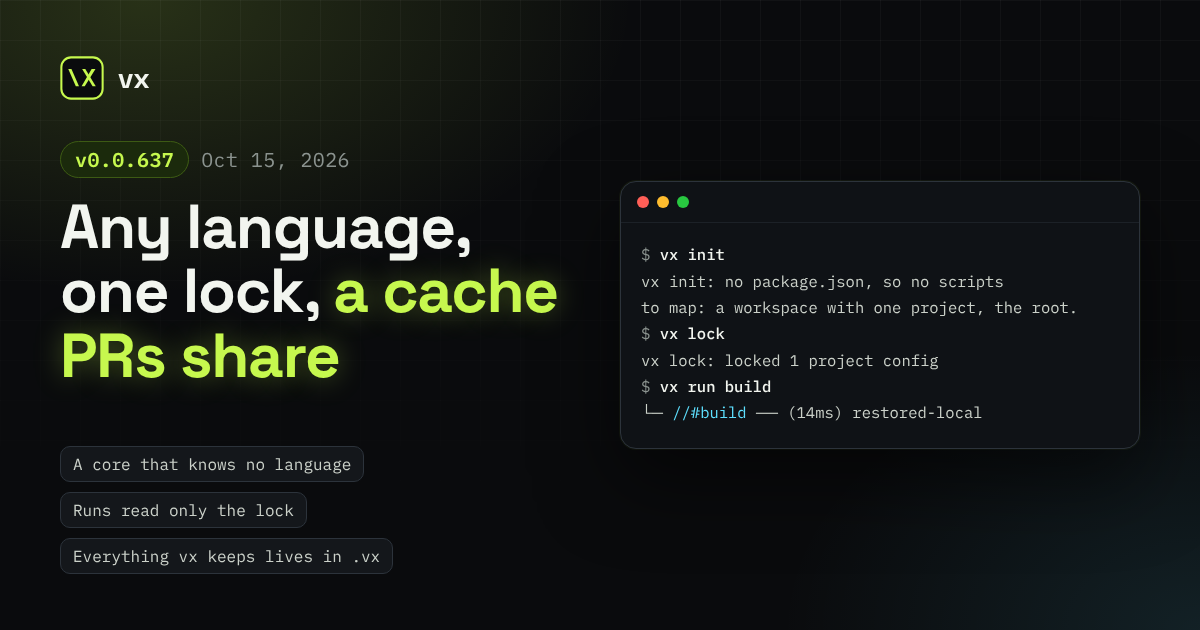
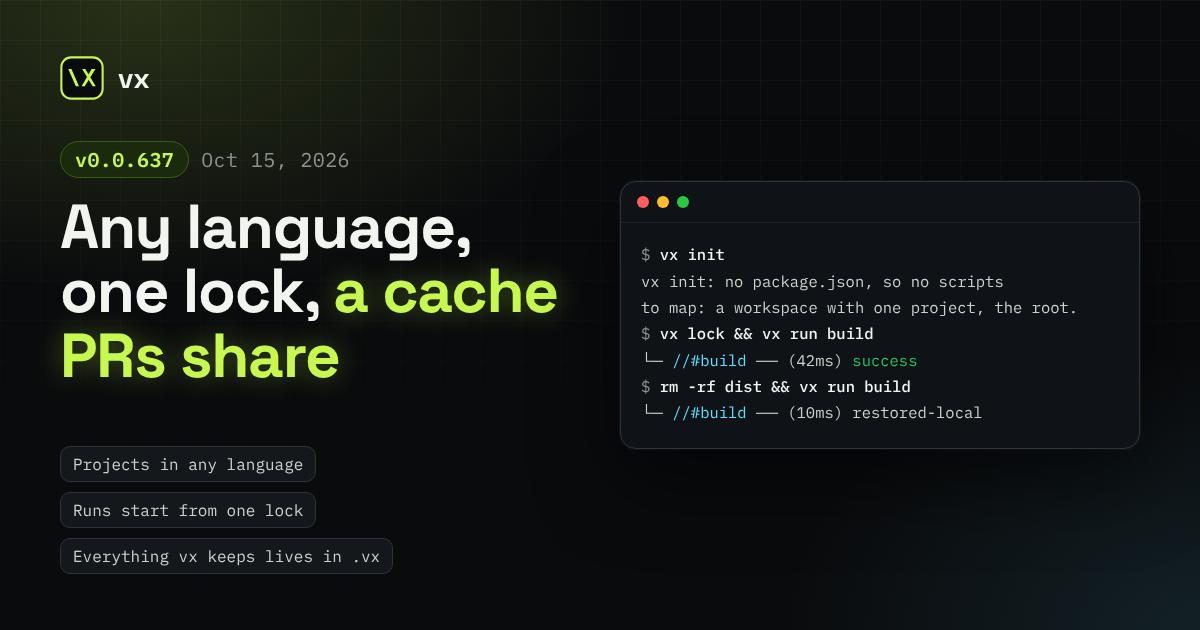
docs(vx-docs): review v0.0.637 against its code, add context
Every section checked against the v0.0.637 docs and a fixture run: the
init example now shows a real task, the scope and env claims match the
code, and each feature says the problem, how it works and an example.

Claude-Session: https://claude.ai/code/session_01VJXgsMkfMPFR7myuFKdVwZ

Changed region(s): [[0.555, 0.5127, 0.7708, 0.6635], [0.0617, 0.7238, 0.3083, 0.754], [0.0925, 0.7841, 0.2467, 0.8143]]

diff --git a/packages/vx-docs/src/content/docs/releases/vx-0-0-637.md b/packages/vx-docs/src/content/docs/releases/vx-0-0-637.md
@@ -8,45 +8,45 @@ tags:
 cover:
   image: ../../../assets/blog/vx-0-0-637.png
   alt: 'vx 0.0.637: Any language, one lock, a cache PRs share'
-excerpt: 'Core stops reading package.json, so a project is any directory with a vx.config and JavaScript is a plugin. Runs read one lock and evaluate nothing, and pull requests reuse main''s cache.'
+excerpt: 'vx now runs projects in any language, every run starts from one reviewed lock, pull requests build on what main cached, and a run tells you how long it has left.'
 ---
 
-vx now runs any language's projects, every run starts from one lock,
-and pull requests build on what main already cached. Until now core read
-`package.json` everywhere, so vx could only ever be a JavaScript tool.
-Now core knows only directories and configs, JavaScript is a plugin,
-and runs evaluate nothing.
+vx now runs projects in any language, every run starts from one lock
+you can review, pull requests build on what main already cached, and a
+run tells you how long it has left.
 
-It is a big one for breaking changes too. Before 1.0 old names simply
-stop working, so read the [list at the end](#breaking-changes) before
-you update.
+Until now core read `package.json` everywhere, so vx could only ever be
+a JavaScript tool. This release moves all of that into a plugin: core
+knows directories, configs and the commands they declare, and nothing
+about any language.
+
+It is also a big one for breaking changes. Before 1.0 an old name simply
+stops working, with no alias or warning, so read the
+[list at the end](#breaking-changes) before you update.
 
 Enjoy the release!
 
 **In this release**
 
-- [A core that knows no language](#a-core-that-knows-no-language)
-- [Runs read only the lock](#runs-read-only-the-lock)
+- [Projects in any language](#projects-in-any-language)
+- [Runs start from one lock](#runs-start-from-one-lock)
 - [Everything vx keeps lives in .vx](#everything-vx-keeps-lives-in-vx)
 - [Pull requests reuse main's cache](#pull-requests-reuse-mains-cache)
 - [A run says how long it has left](#a-run-says-how-long-it-has-left)
 - [Other noteworthy changes](#other-noteworthy-changes)
 - [Breaking changes](#breaking-changes)
 
-## A core that knows no language
+## Projects in any language
 
-A task runner should not care what language a task builds. Yet our core
-read `package.json` to find projects, folded it into every cache key and
-drew dependency edges from it. A Rust or Python folder could not be a
-first-class project.
+A task runner should not care what a task builds. Yet our core found
+projects through `package.json`, folded every `package.json` into the
+cache keys and drew dependency edges from them. A Python service or a Go
+tool next to your packages could never be a full project, and a repo with
+no `package.json` at all could not use vx.
 
-Now a project is any directory with a `vx.config`. What JavaScript
-needs, the members, the edges and `package.json` as an input, comes from
-`pnpm()`, `bun()`, `npm()` or `yarn()` in `@vzn/vx-lockfile`. The edges
-are exactly what your lockfile installed, so a dependency bump re-keys
-only the tasks that use it. You don't write any of this: `vx init` adds
-the right plugin, and in a repo with no `package.json` it writes a
-workspace with one project, the root.
+Now a project is any directory with a `vx.config`. It is named by the
+config's `name`, else by a plugin, else by its path (`//` for the root).
+Here is a repo with nothing but Python in it:
 
 ```sh frame="terminal"
 $ vx init
@@ -54,26 +54,86 @@ vx init: no package.json, so no scripts to map: a workspace with one project, th
 wrote .vx/workspace.ts, vx.config.ts, .vx/.gitignore, .vx/.gitattributes.
 
 vx lock: locked 1 project config → .vx/projects.lock.json
-$ vx run build
-└─ //#build ── (14ms) restored-local
 ```
 
-Drop the plugin and a `^build` is refused rather than replaying stale
-bytes. More in
+Declare a task in the `vx.config.ts` it wrote, and it caches like any
+other:
+
+```ts
+import { defineProject } from '@vzn/vx/config'
+
+export default defineProject({
+  tasks: {
+    build: {
+      exec: { command: 'python3 -m zipapp src -m app:main -o dist/app.pyz' },
+      cache: {
+        inputs: { files: ['src/**'] },
+        outputs: { files: ['dist/**'] },
+      },
+    },
+  },
+})
+```
+
+```sh frame="terminal"
+$ vx lock && vx run build
+└─ //#build ── (42ms) success
+$ rm -rf dist && vx run build
+└─ //#build ── (10ms) restored-local
+```
+
+JavaScript keeps everything it had, from a plugin. `pnpm()`, `bun()`,
+`npm()` or `yarn()` from `@vzn/vx-lockfile` adds your workspace members
+as projects, draws the edges exactly as your lockfile installed them,
+and adds each `package.json` to its tasks' inputs. Each task is keyed on
+its own project's dependency closure, so `pnpm update foo` re-keys only
+the projects that reach `foo`, and `--affected` selects the same ones.
+`vx init` writes the right plugin for you.
+
+A `^build` needs edges to follow, so without such a plugin vx refuses it
+rather than build with no upstream in the key:
+
+```sh frame="terminal"
+$ vx lock
+vx lock: .vx/projects.lock.json not written: app#build: ^build needs project edges; add pnpm()/bun()/npm()/yarn() or a plugin that returns `deps`
+```
+
+More in
 [A lockfile bump should re-key two tasks, not sixty](../../blog/lockfile-aware-keys/).
 
-## Runs read only the lock
+## Runs start from one lock
 
-Every run used to evaluate every `vx.config.ts` and check the graph
-first, even when nothing changed. That is work you pay for on each run,
-and it made a run's view of the configs depend on whatever was on disk.
+A `vx.config.ts` is a program. Every run used to evaluate all of them and
+check the graph before the first task, even when nothing had changed, so
+each run paid for it and saw whatever happened to be on disk.
 
-Now `vx lock` evaluates the configs once, checks the graph rules and
-writes `.vx/projects.lock.json`. Runs, `vx show` and `vx info` read that
-file and evaluate nothing. Beside each config, `vx lock` writes a
-readable `vx.lock.json`, so a config change shows up in review as data.
-Run `vx lock` after you edit a config or update dependencies; on CI,
-check it first:
+Now `vx lock` is the one step that evaluates configs. It checks the
+graph rules and writes `.vx/projects.lock.json`, and every run,
+`vx watch` cycle and `--affected` selection reads that file, evaluates
+nothing and checks nothing. With no lock, a run stops and tells you to
+run `vx lock`.
+
+You commit the lock, so a config change is reviewed as data, not only
+as code. Beside each `vx.config`, `vx lock` also writes a readable
+`vx.lock.json` with the config as vx resolved it, plugins applied:
+
+```json
+{
+  "tasks": {
+    "build": {
+      "exec": { "command": "python3 -m zipapp src -m app:main -o dist/app.pyz" },
+      "cache": {
+        "inputs": { "files": ["src/**"] },
+        "outputs": { "files": ["dist/**"] }
+      }
+    }
+  }
+}
+```
+
+Run `vx lock` after you edit a config, update dependencies or plugins,
+or change a file a config imports. On CI, check first, so a stale lock
+fails before any task:
 
 ```sh frame="terminal"
 $ vx lock --check
@@ -84,66 +144,86 @@ See [When to run vx lock](../../guides/ci/#when-to-run-vx-lock).
 
 ## Everything vx keeps lives in .vx
 
-vx files were scattered over the repo root, and the root was guessed.
-Now `.vx/` holds it all: `workspace.ts` is the config and also marks
-the root, the lock sits beside it, and local cache lives in
-`.vx/cache`, kept out of git by its own committed `.gitignore`. Your
-root `.gitignore` stays untouched.
+vx files sat in the repo root next to everyone else's, and the root was
+guessed. Now one directory holds them:
 
 ```sh frame="terminal"
 $ ls -a .vx
 .gitattributes  .gitignore  projects.lock.json  workspace.ts
 ```
 
-A global `vx` hands off to the project's own `@vzn/vx`, so everyone on
-the team runs the version the repo pins.
+`.vx/workspace.ts` is the workspace config, and the file also marks the
+workspace root: vx looks for the nearest one up from where you stand,
+never above the git root. The lock sits beside it, marked generated so
+diffs collapse it. Run history and the workspace's cache index live in
+`.vx/cache`, kept out of git by `.vx/.gitignore`, so your own
+`.gitignore` is never touched. Cached outputs live in one store per
+repository under `~/.vx`, so every worktree of the repo hits what
+another one built.
+
+A globally installed `vx` now hands every call to the project's own
+`@vzn/vx`, so the whole team runs the version the repo pins.
 
 ## Pull requests reuse main's cache
 
-A pull request should start from what main already built, and must not
-write into the cache main reads. Cache scopes now do exactly that: a
-named scope reads the default keys, then its own, and writes only its
-own. On GitHub Actions, `github()` from `@vzn/vx-ci` sets the scope
-`pr-<n>` for you. Off CI, a run reads the remote and writes nothing.
+A pull request should start from what main already built, and it must
+never write into the keys main reads. Cache scopes now do exactly that.
 
-```sh frame="terminal"
-$ vx run ci --affected=origin/main
+With no scope a run reads and writes the default keys. A named scope
+reads the default key first, then its own, and writes only its own, in
+the local cache and every remote alike. On GitHub Actions, `github()`
+from `@vzn/vx-ci` sets it for you: no scope on a push to main, `pr-<n>`
+on a pull request, `ref-<name>` on any other branch.
+
+```ts
+// .vx/workspace.ts
+import { defineWorkspace } from '@vzn/vx/config'
+import { github } from '@vzn/vx-ci'
+
+export default defineWorkspace({ plugins: [github()] })
 ```
 
-See [Cache scopes and tokens](../../guides/ci/#cache-scopes-and-tokens).
+Off CI, a run reads the remote but does not write it: a key holds only
+declared inputs, so a tool only your laptop has must never replay on
+CI. A scope is the client's half; the server's half is the token, a
+write token only for main's CI and a read-only one everywhere else. See
+[Cache scopes and tokens](../../guides/ci/#cache-scopes-and-tokens).
 
 ## A run says how long it has left
 
-A progress bar that counts tasks tells you little when one task takes a
-minute and the rest take a second. vx now learns how long each task
-usually takes and forecasts from that.
+A bar that counts tasks says little when one task takes a minute and
+the rest take a second. vx now learns how long each task usually takes
+and forecasts from it.
 
 A task's usual duration is the median of its last five timings on this
 branch, else on any branch. Timings are shared by every worktree of the
-repo, so a fresh worktree forecasts on its first run. The `time` row
-shows `~3s left`, sized by the longest unfinished chain and the work
-left over your workers, and each running row shows the task's usual
-duration while its elapsed time counts toward it:
+repo, so a fresh worktree forecasts on its first run. Each running row
+shows the usual duration while its time counts toward it, and the
+`time` row shows what is left, sized by the longest unfinished chain and
+by the work left over your workers:
 
 ```sh frame="terminal"
 3.33s running ~5.2s  solid-js#types
 time  1.41s · ~3s left
 ```
 
-`--branch` or `VX_RUN_BRANCH` sets the branch a run records and forecasts
-from, and `vx last --stats --branch main` shows each task's usual
-duration there.
+`--branch` or `VX_RUN_BRANCH` sets the branch a run records and
+forecasts from (else git's, then the CI provider's), and
+`vx last --stats --branch main` shows each task's usual duration there.
 
 ## Other noteworthy changes
 
-- `vx cache clean` clears this repo's cache; `--older-than`,
-  `--max-size`, `--global` and `--dry-run` shape it. It never touches
-  your config or lock.
-- A task no longer sees vx's own environment, on Linux and macOS. More
-  in [A task sees only the env it names](../../blog/env-isolation/).
-- `cache.outputs.clean: false` keeps a task's outputs on a miss, for
-  tools that update their output in place.
-- `vx upgrade` checks npm's signature before it installs.
+- `vx cache clean` clears this repository's cache; `--older-than 30d`
+  and `--max-size 5GB` trim it instead, `--global` clears every
+  repository's, and `--dry-run` says what it would remove. It never
+  touches your config or lock.
+- An unsandboxed task runs as you, so it could read the variables vx
+  itself holds but did not give it. vx now closes its own environment to
+  other processes on Linux, and blanks the values `ps eww` shows on
+  macOS. More in [A task sees only the env it names](../../blog/env-isolation/).
+- `cache.outputs.clean: false` keeps a task's outputs on a miss instead
+  of clearing them first, for a tool that updates its output in place.
+- `vx upgrade` checks npm's registry signature before it installs.
 
 ## Breaking changes
 
@@ -151,18 +231,20 @@ Every cached task misses once. Then:
 
 - `vx.workspace.ts` → `.vx/workspace.ts` (relative imports gain a
   `../`); `vx-lock.json` → `.vx/projects.lock.json`. Run `vx lock`.
-- `package.json` edges and keys come only from a `@vzn/vx-lockfile`
-  plugin; `NamedProject` → `DiscoveredProject`.
-- `--frozen`, `--no-frozen`, `run.frozen` and `VX_RUN_FROZEN` → removed.
-- `vx cache prune` → `vx cache clean`; `vx prune` → removed.
+- `package.json` members, edges and keys come only from a
+  `@vzn/vx-lockfile` plugin; `NamedProject` → `DiscoveredProject`.
 - `vx init` hands a repo with a `package.json`, `turbo.json` or
   `nx.json` to `@vzn/vx-migrate`.
+- `--frozen`, `--no-frozen`, `run.frozen` and `VX_RUN_FROZEN` → removed:
+  every run reads the lock. Graph rules → checked by `vx lock` only.
+- `vx cache prune` → `vx cache clean`; `vx prune` → removed.
 - Workspace keys, `VX_*` variables and flags follow one path per
   setting: `cacheScope` → `cache.scope`; `--cache` → `--cache-policy`;
   `--download` → `--cache-download`; `vx migrate` →
   `bunx @vzn/vx-migrate`; `vx stats` → `vx info`.
 - Cache scopes `'trusted'` and `'read-only'` → plain names; a read-only
-  run is `cache.policy: 'remote:r'`. A cache plugin returns only a remote.
+  run is `cache.policy: 'local:rw,remote:r'`. A cache plugin returns
+  only a remote.
 - `@vzn/vx-mcp` and `vx mcp` → the agent skill
   (`npx skills add vznjs/vx/packages/vx/skills/vx`).
 
